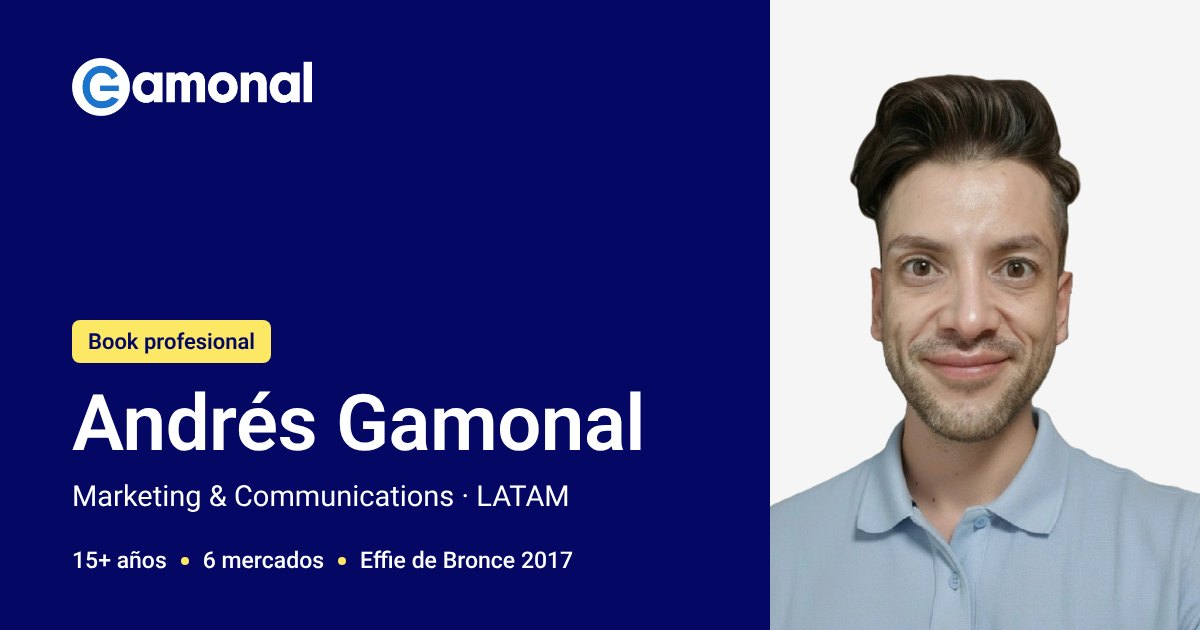
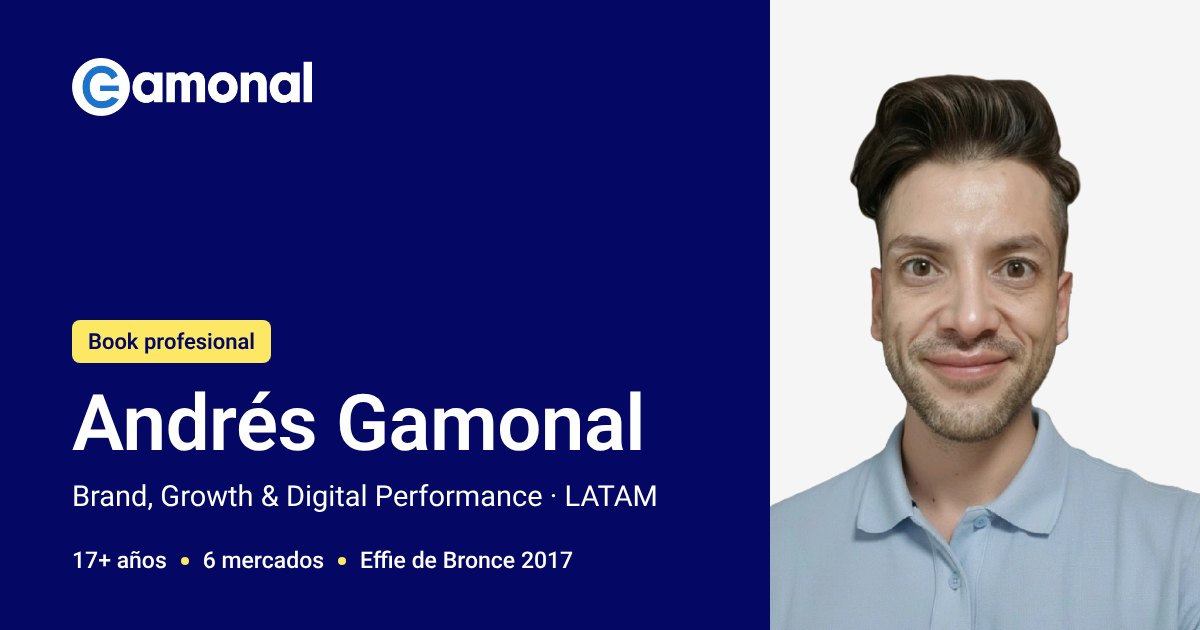
Agrega Zurich como empleador actual y alinea el book con el CV de agosto 2026
- Nuevo Caso 01 · Zurich Seguros Chile (Digital Acquisition Lead, 2026 —
  Actualidad), con el isotipo oficial sobre azul Zurich #2167AE. Los demás
  casos pasan a 02-07 y las anclas de la grilla se renumeran.
- Radar deja de figurar como actual: 2026 (02/2026 – 07/2026 según CV).
- Grilla de marcas para 7 tarjetas: fila de 7 en escritorio y última fila
  centrada en pantallas menores.
- Datos del CV: 17+ años, 6 compañías, BMI con 4 operaciones, ahorro anual
  +US$100K, 90% de aprobación del canal intermediario, +80% de ventas de
  Aliro desde leads de marketing, récord de engagement en 4 periodos,
  portugués básico y nombres actuales de los comités ANDA.
- Portada: "Actualmente en Zurich Seguros Chile" y titular Brand, Growth &
  Digital Performance. Imagen para compartir regenerada.
- README y DECISIONES-VISUALES actualizados.

Claude-Session: https://claude.ai/code/session_019mbWtLLcXCKAQdS119fuZq

Changed region(s): [[0.0617, 0.754, 0.555, 0.8143], [0.0617, 0.8746, 0.0925, 0.9048]]

diff --git a/index.html b/index.html
@@ -5,7 +5,7 @@
 <meta name="robots" content="noindex, nofollow">
 <meta name="googlebot" content="noindex, nofollow">
 <title>Andrés Gamonal — Brandformance Lab</title>
-<meta name="description" content="Book profesional de Andrés Gamonal: más de 15 años en marketing, marca y performance digital en LATAM. Casos, resultados, piezas y contacto.">
+<meta name="description" content="Book profesional de Andrés Gamonal: más de 17 años en marketing, marca, venta digital y performance en LATAM. Casos, resultados, piezas y contacto.">
 <meta name="theme-color" content="#040764">
 <link rel="canonical" href="https://book.gamonal.app/">
 <!-- Ícono de la pestaña (favicon oficial Gamonal) -->
@@ -18,11 +18,11 @@
 <meta property="og:locale" content="es_LA">
 <meta property="og:url" content="https://book.gamonal.app/">
 <meta property="og:title" content="Andrés Gamonal — Book profesional">
-<meta property="og:description" content="Marketing &amp; Communications · LATAM. Más de 15 años en marca, performance digital y publicidad. Casos, resultados y contacto.">
+<meta property="og:description" content="Brand, Growth &amp; Digital Performance · LATAM. Más de 17 años en marca, venta digital y publicidad. Casos, resultados y contacto.">
 <meta property="og:image" content="https://book.gamonal.app/imagenes/imagen-compartir.jpg">
 <meta property="og:image:width" content="1200">
 <meta property="og:image:height" content="630">
-<meta property="og:image:alt" content="Andrés Gamonal — Book profesional · Marketing &amp; Communications · LATAM">
+<meta property="og:image:alt" content="Andrés Gamonal — Book profesional · Brand, Growth &amp; Digital Performance · LATAM">
 <meta name="twitter:card" content="summary_large_image">
 <link rel="preconnect" href="https://fonts.googleapis.com">
 <link rel="preconnect" href="https://fonts.gstatic.com" crossorigin="">
@@ -159,12 +159,14 @@
   .section-head{text-align:center;margin-bottom:40px}
   .section-head .kicker{display:inline-block;padding:5px 14px;background:rgba(0,113,206,.10);color:var(--blue);font-size:12px;font-weight:700;border-radius:999px;margin-bottom:14px}
   .section-head h2{font-size:clamp(32px,4.5vw,52px);font-weight:900;line-height:1;margin:0;color:var(--ink)}
-  .brand-grid{max-width:var(--max);margin:0 auto;padding:0 20px;display:grid;grid-template-columns:repeat(6,1fr);gap:14px}
+  .brand-grid{max-width:var(--max);margin:0 auto;padding:0 20px;display:flex;flex-wrap:wrap;justify-content:center;gap:14px}
+  .brand-grid>.brand-card{flex:0 0 calc((100% - 6*14px)/7);min-width:0}
   .brand-card{display:flex;flex-direction:column;align-items:center;gap:10px;padding:22px 12px;background:#fff;border:1px solid var(--line);border-radius:14px;transition:all .25s;text-align:center}
   .brand-card:hover{transform:translateY(-4px);border-color:var(--blue);box-shadow:0 12px 24px rgba(42,45,69,.08)}
   .brand-card .logo{width:54px;height:54px;border-radius:12px;background:var(--bg);overflow:hidden;display:flex;align-items:center;justify-content:center;position:relative}
   .brand-card .logo::before{content:attr(data-fb);position:absolute;inset:0;display:flex;align-items:center;justify-content:center;color:#fff;font-weight:900;font-size:11px;letter-spacing:.3px;text-align:center;padding:4px}
   .brand-card .logo img{width:100%;height:100%;object-fit:cover;position:relative;z-index:1}
+  .brand-card .logo.zurich-bg{background:#2167AE}
   .brand-card .logo.radar{background:#222F47}
   .brand-card .logo.bmi-bg{background:#072146}
   .brand-card .logo.libertyandes-bg{background:#FFD500}
@@ -176,8 +178,9 @@
   .brand-card .yr{font-size:11px;color:var(--blue);font-weight:700}
   .brand-card .nm{font-size:13px;font-weight:600;color:var(--ink);line-height:1.2}
   .brand-card .rl{font-size:11px;color:#6b7080;font-weight:400;line-height:1.3;padding:0 4px}
-  @media(max-width:780px){.brand-grid{grid-template-columns:repeat(3,1fr)}}
-  @media(max-width:480px){.brand-grid{grid-template-columns:repeat(2,1fr)}}
+  @media(max-width:1119px){.brand-grid>.brand-card{flex-basis:calc((100% - 3*14px)/4)}}
+  @media(max-width:780px){.brand-grid>.brand-card{flex-basis:calc((100% - 2*14px)/3)}}
+  @media(max-width:480px){.brand-grid>.brand-card{flex-basis:calc((100% - 14px)/2)}}
 
   /* ── CASE ────────────────────────────── */
   .case{padding:96px 0;border-bottom:1px solid var(--line)}
@@ -190,6 +193,7 @@
   .case-banner .brand-l{flex-shrink:0;width:72px;height:72px;border-radius:16px;background:#fff;overflow:hidden;display:flex;align-items:center;justify-content:center;border:1px solid var(--line);position:relative}
   .case-banner .brand-l::before{content:attr(data-fb);position:absolute;inset:0;display:flex;align-items:center;justify-content:center;color:#fff;font-weight:900;font-size:14px;letter-spacing:.3px;text-align:center;padding:4px;line-height:1.1}
   .case-banner .brand-l img{width:100%;height:100%;object-fit:cover;position:relative;z-index:1}
+  .case-banner .brand-l.zurich-bg{background:#2167AE}
   .case-banner .brand-l.radar{background:#222F47}
   .case-banner .brand-l.bmi-bg{background:#072146}
   .case-banner .brand-l.libertyandes-bg{background:#FFD500}
@@ -361,7 +365,7 @@
   GUÍA RÁPIDA DE EDICIÓN
   ..........................................................................
   • Cada sección tiene un título grande marcado con ═══════ y su nombre
-    (ej. "CASO 05 · BBVA"). Usa Ctrl+F y escribe el nombre para saltar a ella.
+    (ej. "CASO 06 · BBVA"). Usa Ctrl+F y escribe el nombre para saltar a ella.
   • Para cambiar un TEXTO: edita SOLO lo que está entre las etiquetas, sin
     tocar las etiquetas. Ej:  <p class="summary ...">AQUÍ VA EL TEXTO</p>
   • TARJETAS DE RESULTADOS (las cifras de cada caso):
@@ -405,11 +409,11 @@
       <div class="slide slide-1">
         <div class="slide-wrap">
           <div class="">
-            <span class="slide-meta"><span class="dot"></span>CDMX, México · Abierto a reubicación</span>
+            <span class="slide-meta"><span class="dot"></span>Actualmente en Zurich Seguros Chile</span>
             <h1 class="">Bienvenido a mi<br>espacio laboral</h1>
             <p class="lead">Este espacio está pensado y desarrollado para que puedas conocer mi oferta de valor profesional, a través de algunos proyectos, estrategias e indicadores que están a tu disposición.</p>
             <a class="slide-cta" href="#" data-video="rW8XFN3lRM8"><svg width="14" height="14" viewBox="0 0 24 24" fill="currentColor"><path d="M8 5v14l11-7z"></path></svg> Ver video</a>
-            <div class="slide-sign"><span class=""><b>Andrés Gamonal</b> · Marketing &amp; Communications · LATAM</span></div>
+            <div class="slide-sign"><span class=""><b>Andrés Gamonal</b> · Brand, Growth &amp; Digital Performance</span></div>
           </div>
           <div class="slide-card"><img class="slide-img" src="https://andresgamonal.com/wp-content/uploads/2025/12/FotoBrandformance.png.webp" alt="Brandformance" loading="eager"></div>
         </div>
@@ -434,12 +438,12 @@
   </div>
 </section>
 
-<!-- ═══════════════ CIFRAS (15+ años, 6 mercados, etc.) ═══════════════ -->
+<!-- ═══════════════ CIFRAS (17+ años, 6 mercados, etc.) ═══════════════ -->
 <section class="stats">
   <div class="stats-grid">
     <div class="stat reveal d1">
       <div class="stat-icon"><svg viewBox="0 0 24 24" fill="none" stroke="currentColor" stroke-width="2"><circle cx="12" cy="12" r="10"></circle><path d="M12 6v6l4 2"></path></svg></div>
-      <div><div class="v">15<sup>+</sup></div><div class="l">Años en marketing</div></div>
+      <div><div class="v">17<sup>+</sup></div><div class="l">Años en marketing</div></div>
     </div>
     <div class="stat reveal d2">
       <div class="stat-icon"><svg viewBox="0 0 24 24" fill="none" stroke="currentColor" stroke-width="2"><path d="M21 10c0 7-9 13-9 13s-9-6-9-13a9 9 0 0118 0z"></path><circle cx="12" cy="10" r="3"></circle></svg></div>
@@ -447,7 +451,7 @@
     </div>
     <div class="stat reveal d3">
       <div class="stat-icon"><svg viewBox="0 0 24 24" fill="none" stroke="currentColor" stroke-width="2"><path d="M3 21h18M5 21V7l7-4 7 4v14M9 9h.01M9 13h.01M9 17h.01M15 9h.01M15 13h.01M15 17h.01" class=""></path></svg></div>
-      <div><div class="v">5</div><div class="l">Compañías líder</div></div>
+      <div><div class="v">6</div><div class="l">Compañías líder</div></div>
     </div>
     <div class="stat reveal d4">
       <div class="stat-icon"><svg viewBox="0 0 24 24" fill="none" stroke="currentColor" stroke-width="2"><path d="M12 15a4 4 0 100-8 4 4 0 000 8z"></path><path d="M8.21 13.89L7 23l5-3 5 3-1.21-9.12"></path></svg></div>
@@ -486,7 +490,7 @@
   </div>
   <!-- ▼ TEXTO de Sobre mí (3 párrafos) -->
   <div class="about-body reveal">
-    <p class="">Trabajo el marketing desde la intersección entre <b>negocio, marca y ejecución</b>. Tengo más de 15 años de experiencia en compañías multinacionales y agencias de publicidad, principalmente en servicios financieros, seguros y tecnología, liderando estrategias B2B/B2C, equipos internos, agencias creativas y medios. Mi trayectoria combina campañas regionales, brandformance, investigación de mercado, publicidad masiva, performance digital, vocerías ejecutivas y medición de resultados; fui reconocido con un <b class="">Effie de Bronce en 2017</b> por una campaña de marca y performance.</p>
+    <p class="">Trabajo el marketing desde la intersección entre <b>negocio, marca y ejecución</b>. Tengo más de 17 años de experiencia en compañías multinacionales y agencias de publicidad, principalmente en servicios financieros, seguros y tecnología, liderando estrategias B2B/B2C, equipos internos, agencias creativas y medios. Mi trayectoria combina campañas regionales, brandformance, investigación de mercado, publicidad masiva, performance digital, vocerías ejecutivas y medición de resultados; fui reconocido con un <b class="">Effie de Bronce en 2017</b> por una campaña de marca y performance.</p>
     <p class="">Entiendo el marketing como una <b class="">función comercial, no solo comunicacional</b>: una disciplina que debe ordenar objetivos, conectar audiencias, construir reputación, generar demanda y demostrar impacto. Mi forma de trabajo integra diagnóstico, research, métricas, creatividad, medios tradicionales, canales digitales y seguimiento comercial para transformar objetivos de marca y negocio en campañas, contenidos y acciones medibles.</p>
     <p class="">En mi etapa más reciente he incorporado <b class="">inteligencia artificial generativa</b> como una herramienta real de gestión: no solo para crear contenidos, sino para analizar información, automatizar procesos, construir soluciones propias y fortalecer la ejecución diaria de marketing, reporting, SEO/GEO, investigación, campañas y toma de decisiones. Me interesa convertir tecnología en aplicaciones concretas que mejoren la eficiencia, la calidad del análisis y la capacidad de respuesta del área.</p>
   </div>
@@ -499,21 +503,38 @@
     <h2>Las marcas donde he trabajado</h2>
   </div>
   <div class="brand-grid">
-    <a class="brand-card reveal d1" href="#c1"><div class="logo radar" data-fb="RADAR"><img class="radar-logo" src="https://pub-38d62415007c40b4a340ba6c07e74cca.r2.dev/logo-radar/radar-logotipo-blanco.png" alt="Radar" onerror="this.parentNode.classList.add('sin-logo');this.remove()"></div><div class="yr">2026 — Hoy</div><div class="nm">Somos Radar</div><div class="rl">Marketing &amp; Communications Lead</div></a>
-    <a class="brand-card reveal d2" href="#c2"><div class="logo bmi-bg" data-fb="BMI"><img src="https://andresgamonal.com/wp-content/uploads/2025/11/5-Favicn-BMISeguros.png" alt="" onerror="this.remove()"></div><div class="yr">2024 — 2025</div><div class="nm">BMI Headquarters</div><div class="rl">Corporate Marketing Manager</div></a>
-    <a class="brand-card reveal d3" href="#c3"><div class="logo libertyandes-bg" data-fb="LIBERTY"><img src="https://andresgamonal.com/wp-content/uploads/2025/11/4-Favicn-Liberty-Andes.png" alt="" onerror="this.remove()"></div><div class="yr">2020 — 2024</div><div class="nm">Liberty Andes</div><div class="rl">Regional Marketing Director · Team Leader</div></a>
-    <a class="brand-card reveal d4" href="#c4"><div class="logo libertychile-bg" data-fb="LIBERTY"><img src="https://andresgamonal.com/wp-content/uploads/2025/11/3-Favicn-Liberty-Chile.png" alt="" onerror="this.remove()"></div><div class="yr">2018 — 2020</div><div class="nm">Liberty Chile</div><div class="rl">Brand &amp; Digital Communication Manager</div></a>
-    <a class="brand-card reveal d5" href="#c5"><div class="logo bbva-bg" data-fb="BBVA"><img src="https://andresgamonal.com/wp-content/uploads/2025/12/Favicn-BBVA-2.jpg.webp" alt="" onerror="this.remove()"></div><div class="yr">2014 — 2018</div><div class="nm">BBVA Chile</div><div class="rl">Sr. Brand &amp; Digital Performance Manager</div></a>
-    <a class="brand-card reveal d5" href="#c6"><div class="logo santander-bg" data-fb="SANTANDER"><img src="https://andresgamonal.com/wp-content/uploads/2025/11/1-Favicon-Santander.png" alt="" onerror="this.remove()"></div><div class="yr">2012 — 2014</div><div class="nm">Santander Chile</div><div class="rl">Sustainability &amp; Project Manager</div></a>
+    <a class="brand-card reveal d1" href="#c1"><div class="logo zurich-bg" data-fb="ZURICH"><img src="imagenes/logo-zurich.png" alt="Zurich" onerror="this.remove()"></div><div class="yr">2026 — Hoy</div><div class="nm">Zurich Chile</div><div class="rl">Digital Acquisition Lead</div></a>
+    <a class="brand-card reveal d2" href="#c2"><div class="logo radar" data-fb="RADAR"><img class="radar-logo" src="https://pub-38d62415007c40b4a340ba6c07e74cca.r2.dev/logo-radar/radar-logotipo-blanco.png" alt="Radar" onerror="this.parentNode.classList.add('sin-logo');this.remove()"></div><div class="yr">2026</div><div class="nm">Somos Radar</div><div class="rl">Marketing &amp; Communications Lead</div></a>
+    <a class="brand-card reveal d3" href="#c3"><div class="logo bmi-bg" data-fb="BMI"><img src="https://andresgamonal.com/wp-content/uploads/2025/11/5-Favicn-BMISeguros.png" alt="" onerror="this.remove()"></div><div class="yr">2024 — 2025</div><div class="nm">BMI Headquarters</div><div class="rl">Corporate Marketing Manager</div></a>
+    <a class="brand-card reveal d4" href="#c4"><div class="logo libertyandes-bg" data-fb="LIBERTY"><img src="https://andresgamonal.com/wp-content/uploads/2025/11/4-Favicn-Liberty-Andes.png" alt="" onerror="this.remove()"></div><div class="yr">2020 — 2024</div><div class="nm">Liberty Andes</div><div class="rl">Regional Marketing Director · Team Leader</div></a>
+    <a class="brand-card reveal d5" href="#c5"><div class="logo libertychile-bg" data-fb="LIBERTY"><img src="https://andresgamonal.com/wp-content/uploads/2025/11/3-Favicn-Liberty-Chile.png" alt="" onerror="this.remove()"></div><div class="yr">2018 — 2020</div><div class="nm">Liberty Chile</div><div class="rl">Brand &amp; Digital Communication Manager</div></a>
+    <a class="brand-card reveal d5" href="#c6"><div class="logo bbva-bg" data-fb="BBVA"><img src="https://andresgamonal.com/wp-content/uploads/2025/12/Favicn-BBVA-2.jpg.webp" alt="" onerror="this.remove()"></div><div class="yr">2014 — 2018</div><div class="nm">BBVA Chile</div><div class="rl">Sr. Brand &amp; Digital Performance Manager</div></a>
+    <a class="brand-card reveal d5" href="#c7"><div class="logo santander-bg" data-fb="SANTANDER"><img src="https://andresgamonal.com/wp-content/uploads/2025/11/1-Favicon-Santander.png" alt="" onerror="this.remove()"></div><div class="yr">2012 — 2014</div><div class="nm">Santander Chile</div><div class="rl">Sustainability &amp; Project Manager</div></a>
   </div>
 </section>
 
-<!-- ═══════════════ CASO 01 · SOMOS RADAR ═══════════════ -->
+<!-- ═══════════════ CASO 01 · ZURICH ═══════════════ -->
 <section class="case" id="c1">
+  <div class="case-banner reveal">
+    <div class="brand-l zurich-bg" data-fb="ZURICH"><img src="imagenes/logo-zurich.png" alt="Zurich" onerror="this.remove()"></div>
+    <div class="meta-l">
+      <div class="case-num">CASO 01 <span class="yr">· 2026 — Actualidad · Chile</span></div>
+      <h2>Zurich Seguros Chile</h2>
+      <p class="role">Digital Acquisition Lead · Seguros generales · eCommerce B2C</p>
+    </div>
+  </div>
+  <!-- ▼ TEXTO de este caso (edita entre las etiquetas) -->
+  <p class="summary reveal">Impulsar la venta de seguros generales a cliente final (B2C) en el primer canal de eCommerce de Zurich en la región.</p>
+  <div class="res-head reveal"><span class="bar"></span>Resultados y entregables<span class="count">En preparación</span></div>
+  <div class="back"><a href="#marcas">← Volver a marcas</a></div>
+</section>
+
+<!-- ═══════════════ CASO 02 · SOMOS RADAR ═══════════════ -->
+<section class="case" id="c2">
   <div class="case-banner reveal">
     <div class="brand-l radar" data-fb="RADAR"><img class="radar-logo" src="https://pub-38d62415007c40b4a340ba6c07e74cca.r2.dev/logo-radar/radar-logotipo-blanco.png" alt="Radar" onerror="this.parentNode.classList.add('sin-logo');this.remove()"></div>
     <div class="meta-l">
-      <div class="case-num">CASO 01 <span class="yr">· 2026 — Actualidad · MX · CL</span></div>
+      <div class="case-num">CASO 02 <span class="yr">· 2026 · MX · CL</span></div>
       <h2 class="">Somos Radar</h2>
       <p class="role">Marketing &amp; Communications Lead · Soluciones de IA para sector financiero</p>
     </div>
@@ -529,12 +550,12 @@
   <div class="back"><a href="#marcas">← Volver a marcas</a></div>
 </section>
 
-<!-- ═══════════════ CASO 02 · BMI ═══════════════ -->
-<section class="case" id="c2">
+<!-- ═══════════════ CASO 03 · BMI ═══════════════ -->
+<section class="case" id="c3">
   <div class="case-banner reveal">
     <div class="brand-l bmi-bg" data-fb="BMI"><img src="https://andresgamonal.com/wp-content/uploads/2025/11/5-Favicn-BMISeguros.png" alt="" onerror="this.remove()"></div>
     <div class="meta-l">
-      <div class="case-num">CASO 02 <span class="yr">· 2024 — 2025 · 5 operaciones LATAM</span></div>
+      <div class="case-num">CASO 03 <span class="yr">· 2024 — 2025 · 4 operaciones LATAM</span></div>
       <h2>BMI Headquarters</h2>
       <p class="role">Corporate Marketing Manager · Seguros</p>
     </div>
@@ -557,12 +578,12 @@
   <div class="back"><a href="#marcas" class="">← Volver a marcas</a></div>
 </section>
 
-<!-- ═══════════════ CASO 03 · LIBERTY ANDES ═══════════════ -->
-<section class="case" id="c3">
+<!-- ═══════════════ CASO 04 · LIBERTY ANDES ═══════════════ -->
+<section class="case" id="c4">
   <div class="case-banner reveal">
     <div class="brand-l libertyandes-bg" data-fb="LIBERTY"><img src="https://andresgamonal.com/wp-content/uploads/2025/11/4-Favicn-Liberty-Andes.png" alt="" onerror="this.remove()" class=""></div>
     <div class="meta-l">
-      <div class="case-num">CASO 03 <span class="yr">· 2020 — 2024 · CO · CL · EC</span></div>
+      <div class="case-num">CASO 04 <span class="yr">· 2020 — 2024 · CO · CL · EC</span></div>
       <h2 class="">Liberty Seguros Andes</h2>
       <p class="role">Regional Marketing Director · Team Leader</p>
     </div>
@@ -572,8 +593,8 @@
   <!-- ▼ TARJETAS DE RESULTADOS · v = número · l = etiqueta -->
   <div class="kpis">
     <div class="kpi reveal d1"><div class="v">−60<sup>%</sup></div><div class="l">Costo por lead</div></div>
-    <div class="kpi reveal d2"><div class="v">+120<sup class="">K</sup></div><div class="l">Dólares de ahorro por internalización</div></div>
-    <div class="kpi reveal d3"><div class="v">+90<sup class="">%</sup></div><div class="l">Satisfacción intermediarios</div></div>
+    <div class="kpi reveal d2"><div class="v">+100<sup class="">K</sup></div><div class="l">Dólares de ahorro anual por internalización</div></div>
+    <div class="kpi reveal d3"><div class="v">90<sup class="">%</sup></div><div class="l">Aprobación del canal intermediario</div></div>
   </div>
   <div class="res-head reveal"><span class="bar"></span>Campañas en video<span class="count">3 piezas</span></div>
   <div class="vids">
@@ -590,12 +611,12 @@
   <div class="back"><a href="#marcas">← Volver a marcas</a></div>
 </section>
 
-<!-- ═══════════════ CASO 04 · LIBERTY CHILE ═══════════════ -->
-<section class="case" id="c4">
+<!-- ═══════════════ CASO 05 · LIBERTY CHILE ═══════════════ -->
+<section class="case" id="c5">
   <div class="case-banner reveal">
     <div class="brand-l libertychile-bg" data-fb="LIBERTY"><img src="https://andresgamonal.com/wp-content/uploads/2025/11/3-Favicn-Liberty-Chile.png" alt="" onerror="this.remove()"></div>
     <div class="meta-l">
-      <div class="case-num">CASO 04 <span class="yr">· 2018 — 2020 · Chile</span></div>
+      <div class="case-num">CASO 05 <span class="yr">· 2018 — 2020 · Chile</span></div>
       <h2>Liberty Seguros Chile</h2>
       <p class="role">Brand &amp; Digital Communication Manager</p>
     </div>
@@ -606,7 +627,7 @@
   <div class="kpis">
     <div class="kpi reveal d1"><div class="v">Top<sup>5</sup></div><div class="l">Recordación de marca en el sector seguros</div></div>
     <div class="kpi reveal d2"><div class="v">Top<sup>2</sup></div><div class="l">Nuevo activo de marca (audiobranding)</div></div>
-    <div class="kpi reveal d3"><div class="v">+75<sup>%</sup></div><div class="l">Prospectos de Aliro vienen de las campañas de Marketing</div></div>
+    <div class="kpi reveal d3"><div class="v">+80<sup>%</sup></div><div class="l">Ventas de Aliro provienen de los leads de Marketing</div></div>
   </div>
   <div class="res-head reveal"><span class="bar"></span>Campañas en video<span class="count">3 piezas</span></div>
   <div class="vids">
@@ -623,12 +644,12 @@
   <div class="back"><a href="#marcas">← Volver a marcas</a></div>
 </section>
 
-<!-- ═══════════════ CASO 05 · BBVA ═══════════════ -->
-<section class="case" id="c5">
+<!-- ═══════════════ CASO 06 · BBVA ═══════════════ -->
+<section class="case" id="c6">
   <div class="case-banner reveal">
     <div class="brand-l bbva-bg" data-fb="BBVA"><img src="https://andresgamonal.com/wp-content/uploads/2025/12/Favicn-BBVA-2.jpg.webp" alt="" onerror="this.remove()"></div>
     <div class="meta-l">
-      <div class="case-num">CASO 05 <span class="yr">· 2014 — 2018 · Chile</span></div>
+      <div class="case-num">CASO 06 <span class="yr">· 2014 — 2018 · Chile</span></div>
       <h2>Banco BBVA Chile</h2>
       <p class="role">Sr. Brand &amp; Digital Performance Manager · Banca</p>
     </div>
@@ -639,7 +660,7 @@
   <div class="kpis">
     <div class="kpi reveal d1"><div class="v">Effie Bronce</div><div class="l">2017 — Campaña Brandformance</div></div>
     <div class="kpi reveal d2"><div class="v">+30<sup>%</sup></div><div class="l">Crecimiento del Brandpower en 3 años</div></div>
-    <div class="kpi reveal d3"><div class="v">3<sup>veces</sup></div><div class="l">Líder en engagement nacional</div></div>
+    <div class="kpi reveal d3"><div class="v">4<sup>periodos</sup></div><div class="l">Récord país de engagement en Facebook</div></div>
   </div>
   <div class="res-head reveal"><span class="bar"></span>Campañas en video<span class="count">6 piezas</span></div>
   <div class="vids">
@@ -659,12 +680,12 @@
   <div class="back"><a href="#marcas">← Volver a marcas</a></div>
 </section>
 
-<!-- ═══════════════ CASO 06 · SANTANDER ═══════════════ -->
-<section class="case" id="c6">
+<!-- ═══════════════ CASO 07 · SANTANDER ═══════════════ -->
+<section class="case" id="c7">
   <div class="case-banner reveal">
     <div class="brand-l santander-bg" data-fb="SANTANDER"><img src="https://andresgamonal.com/wp-content/uploads/2025/11/1-Favicon-Santander.png" alt="" onerror="this.remove()"></div>
     <div class="meta-l">
-      <div class="case-num">CASO 06 <span class="yr">· 2012 — 2014 · Chile</span></div>
+      <div class="case-num">CASO 07 <span class="yr">· 2012 — 2014 · Chile</span></div>
       <h2>Banco Santander Chile</h2>
       <p class="role">Sustainability &amp; Project Manager · Banca · Programa Sanodelucas</p>
     </div>
@@ -719,9 +740,9 @@
       <div class="form-top"><div class="stat-icon"><svg viewBox="0 0 24 24" fill="none" stroke="currentColor" stroke-width="2" aria-hidden="true"><path d="M17 21v-2a4 4 0 00-4-4H5a4 4 0 00-4 4v2"></path><circle cx="9" cy="7" r="4"></circle><path d="M23 21v-2a4 4 0 00-3-3.87M16 3.13a4 4 0 010 7.75"></path></svg></div><h3>Gremios e idiomas</h3></div>
       <ul class="form-lista">
         <li><b>Jurado Effie Awards Colombia</b><span>Categoría Servicios y Nuevos Productos · 2022&nbsp;—&nbsp;2023</span></li>
-        <li><b>Comité de Medios y Digital</b><span>ANDA, Asociación Nacional de Avisadores de Chile · 2020&nbsp;—&nbsp;2023</span></li>
-        <li><b>Comité de Comunicaciones</b><span>ANDACOL, Asociación Nacional de Avisadores de Colombia · 2021&nbsp;—&nbsp;2023</span></li>
-        <li><b>Idiomas</b><span>Español nativo · Inglés B1 (British Council, en curso)</span></li>
+        <li><b>Comité de Marca, Medios y Digital</b><span>ANDA Chile · 2020&nbsp;—&nbsp;2023</span></li>
+        <li><b>Comité de Marketing y Comunicaciones</b><span>ANDA Colombia · 2021&nbsp;—&nbsp;2023</span></li>
+        <li><b>Idiomas</b><span>Español nativo · Inglés B1 · Portugués básico</span></li>
       </ul>
     </div>
   </div>

diff --git a/README.md b/README.md
@@ -22,12 +22,12 @@ Cambia solo lo que está entre las etiquetas, sin tocarlas.
 
 | Quiero cambiar | Busco |
 |---|---|
-| La píldora de la portada (ciudad y disponibilidad) | `Abierto a reubicación` |
+| La píldora de la portada (cargo actual) | `Actualmente en` |
 | El texto de bienvenida | `Bienvenido a mi` |
 | La lámina de certificaciones de la portada | `Certificaciones<br>digitales` |
 | El texto de "Sobre mí" | `Trabajo el marketing` |
 | La foto de "Sobre mí" | `retrato-andres-gamonal` |
-| Una marca o un caso | `CASO 01` … `CASO 06` |
+| Una marca o un caso | `CASO 01` … `CASO 07` |
 | Las cifras de resultados de un caso | `TARJETAS DE RESULTADOS` |
 | Formación, certificaciones, gremios o idiomas | `FORMACIÓN Y CREDENCIALES` |
 | El CV (aparece en 3 lugares: menú, barra lateral y cierre) | `CV-Andr` |
@@ -39,10 +39,10 @@ Cambia solo lo que está entre las etiquetas, sin tocarlas.
 1. Menú superior: logo y botón **Descargar CV**, visible en todas las pantallas.
 2. Barra lateral flotante (solo en pantallas muy anchas): WhatsApp, correo, LinkedIn y CV.
 3. Portada en carrusel: bienvenida con video y certificaciones digitales.
-4. Cifras: 15+ años, 6 mercados, 5 compañías y Effie de Bronce.
+4. Cifras: 17+ años, 6 mercados, 6 compañías y Effie de Bronce.
 5. Disciplinas en cinta móvil.
 6. Sobre mí, con retrato.
-7. Marcas (6) y un caso por marca: resumen, resultados, documentos, videos y audios.
+7. Marcas (7) y un caso por marca: resumen, resultados, documentos, videos y audios. El orden va de la más reciente (Zurich) a la más antigua (Santander).
 8. Formación y credenciales: educación, certificaciones, gremios, jurado Effie e idiomas.
 9. Cierre con correo, WhatsApp, LinkedIn y CV.
 
@@ -66,7 +66,7 @@ Las otras ramas del repositorio generan una **vista previa** con su propia direc
 
 - **Reemplazar una imagen de `imagenes/`:** usa un nombre nuevo (por ejemplo `retrato-andres-gamonal-2.webp`) y cámbialo en `index.html`. Los navegadores guardan esas imágenes una semana.
 - **Vista previa al compartir:** WhatsApp y LinkedIn guardan la vista previa varios días. Para refrescarla en LinkedIn usa https://www.linkedin.com/post-inspector/.
-- **Archivos externos:** las imágenes de marcas y casos están en `andresgamonal.com` y los PDF y audios en sus subdominios `cdn-*`. El CV, los certificados y el logo de Radar están en Cloudflare R2 (`pub-…r2.dev`). Los videos se reproducen desde YouTube (`youtube-nocookie.com`).
+- **Archivos externos:** las imágenes de marcas y casos están en `andresgamonal.com` y los PDF y audios en sus subdominios `cdn-*`. El CV, los certificados y el logo de Radar están en Cloudflare R2 (`pub-…r2.dev`). El ícono de Zurich está en `imagenes/logo-zurich.png` (isotipo oficial). Los videos se reproducen desde YouTube (`youtube-nocookie.com`).
 - **Diseño:** paleta Gamonal (azul `#040764`, azul secundario `#1C73CB`, turquesa `#20B6B6`, amarillo `#FCE865`, gris `#3B3B3B`) y tipografía Roboto. Las decisiones vigentes están en `DECISIONES-VISUALES.md`.
 
 ---

diff --git a/DECISIONES-VISUALES.md b/DECISIONES-VISUALES.md
@@ -8,6 +8,8 @@ Estados: `VIGENTE` (rige) · `SUPERADA` (reemplazada por una decisión posterior
 | DEC-001 | Marcas → Caso 01 | Ambas secciones tenían el mismo gris y se fundían | Los casos alternan fondo empezando en blanco (Caso 01 blanco, 02 gris…). En casos de fondo blanco, las tarjetas van en gris. | VIGENTE |
 | DEC-002 | Retrato (Sobre mí e imagen para compartir) | El recorte de la foto deja un halo claro sobre fondos azules | El retrato va siempre sobre fondo claro sólido `#F5F5F5`: avatar circular en "Sobre mí" y panel derecho en la imagen para compartir | VIGENTE |
 | DEC-003 | Logo Gamonal | Los SVG del logo en Drive (`Marca Gamonal/Logos/SVG`) se ven cortados abajo | Usar los PNG oficiales (`Logos/PNG-2100x600`) hasta corregir los SVG | VIGENTE |
-| DEC-004 | Caso 01 · Radar | Los lineamientos de marca Gamonal excluyen a Radar | En este book se mantiene porque es historial laboral y el usuario pidió mostrar sus trabajos de Radar | VIGENTE |
+| DEC-004 | Caso 02 · Radar | Los lineamientos de marca Gamonal excluyen a Radar | En este book se mantiene porque es historial laboral y el usuario pidió mostrar sus trabajos de Radar | VIGENTE |
 | DEC-005 | Formación y credenciales | Sección nueva antes del cierre | Fondo azul `#040764` con tarjetas blancas (nunca azul sobre azul) y etiqueta amarilla | VIGENTE |
 | DEC-006 | Todo el book | El diseño original usa radios de 12–24 px y píldoras, pesos 900, degradado en la portada, transparencias y bordes en tarjetas. Eso difiere de los lineamientos (radio 5–10 px, peso máximo 600, fondos sólidos). | Alinear en una pasada propia, con maqueta y aprobación previa | PENDIENTE |
+| DEC-007 | Caso 01 · Zurich | Faltaba Zurich como empleador actual | Ícono con el isotipo oficial blanco (repositorio `flash-campaign`, `public/brand/zurich/`) sobre azul Zurich `#2167AE`, proporción 1,03:1 intacta; datos según CV de agosto 2026 | VIGENTE |
+| DEC-008 | Marcas | Con 7 marcas, la grilla de 6 columnas dejaba una tarjeta sola | Fila de 7 en escritorio; en pantallas menores, 4, 3 o 2 por fila, con la última fila centrada | VIGENTE |
